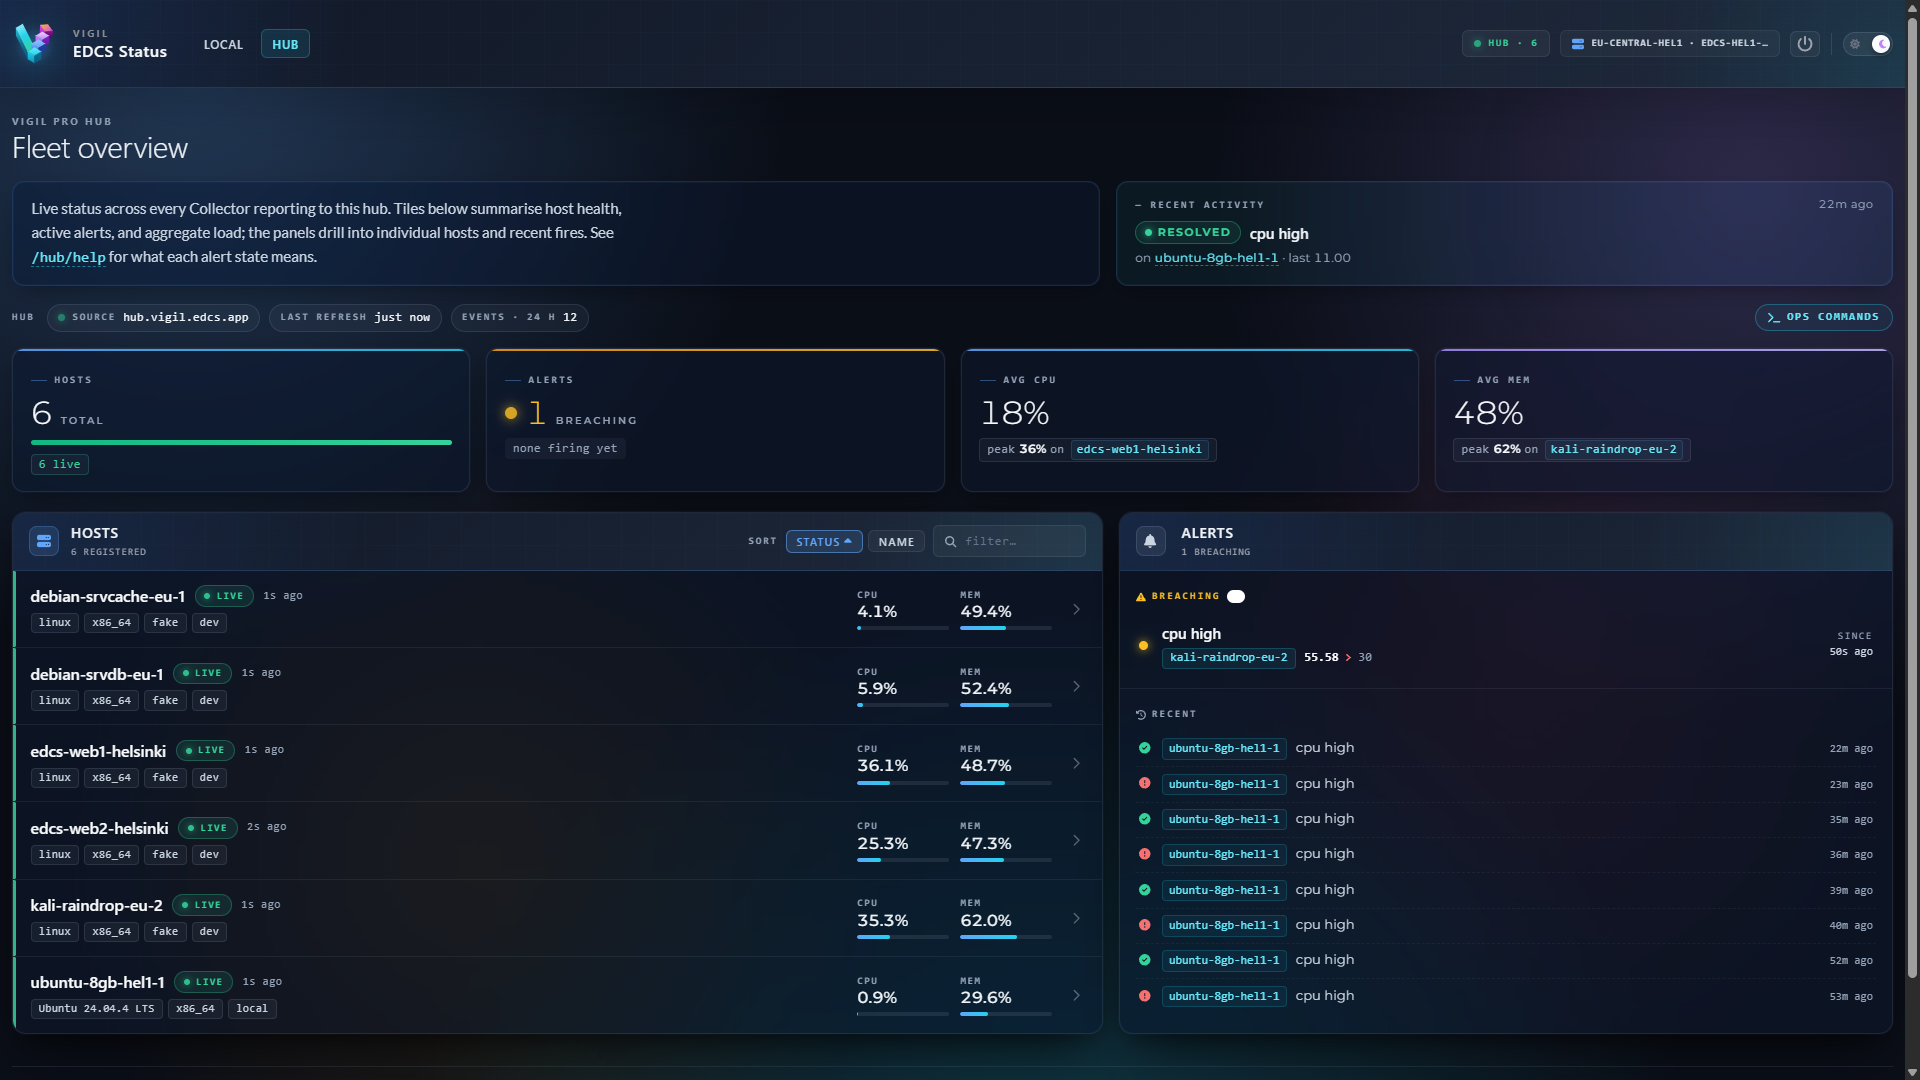
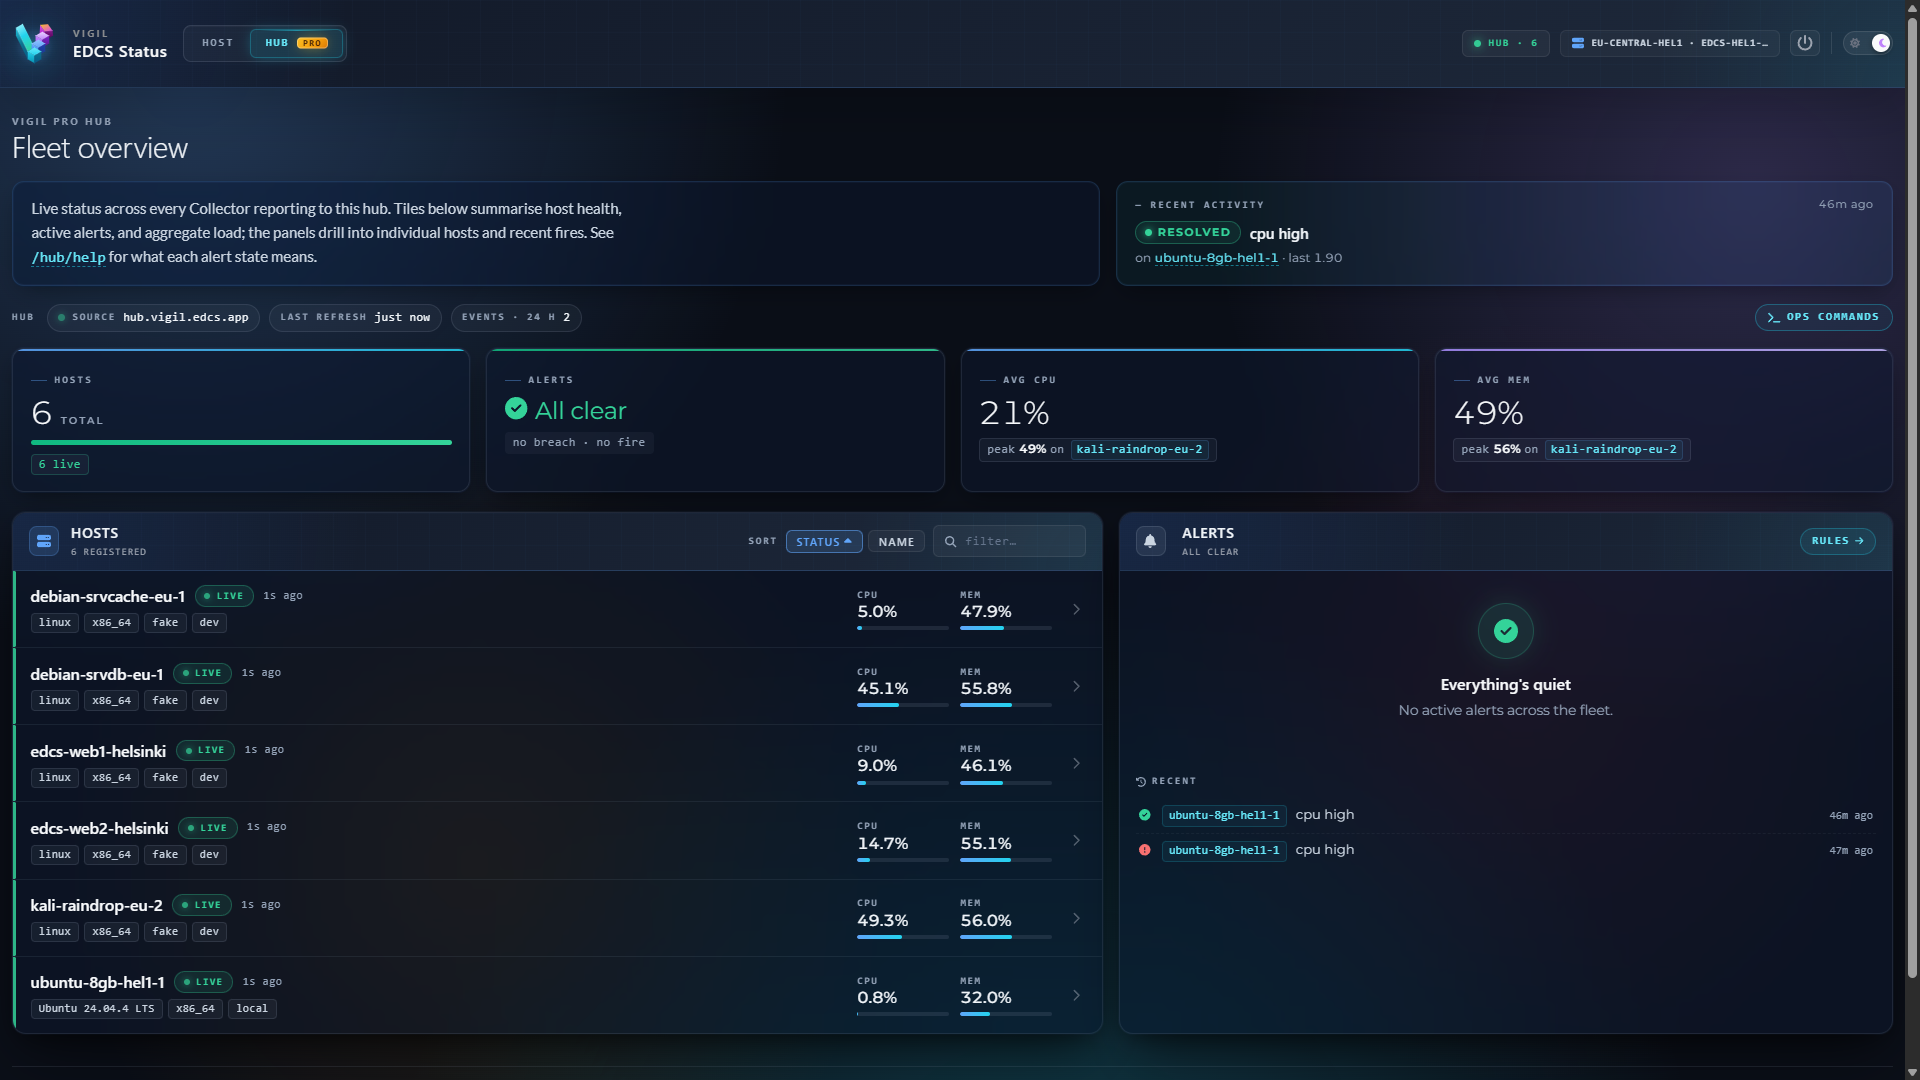
update docs

diff --git a/README.md b/README.md
@@ -8,7 +8,7 @@
 
 <p align="center">View a <a href="https://status.edcs.app">live example here</a>.</p>
 
-![image](./readme.png)
+![image](./docs/dashboard.png)
 
 Vigil ships in **two modes** that share the same SPA build:
 
